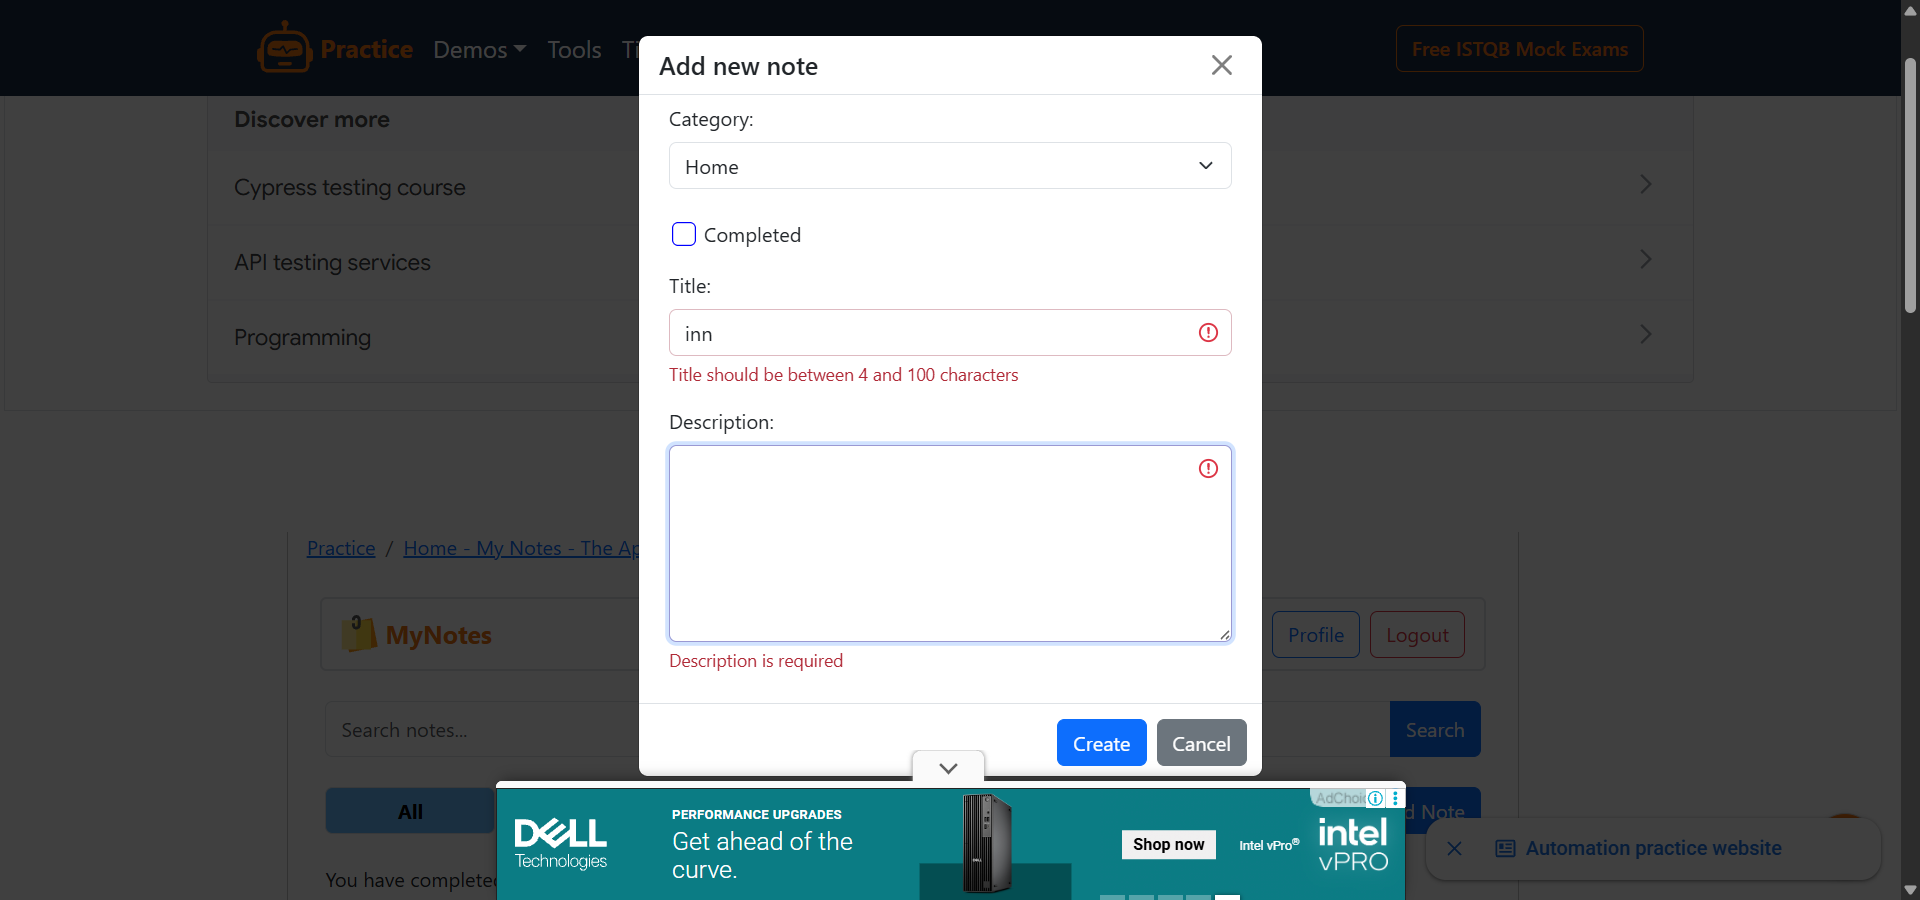
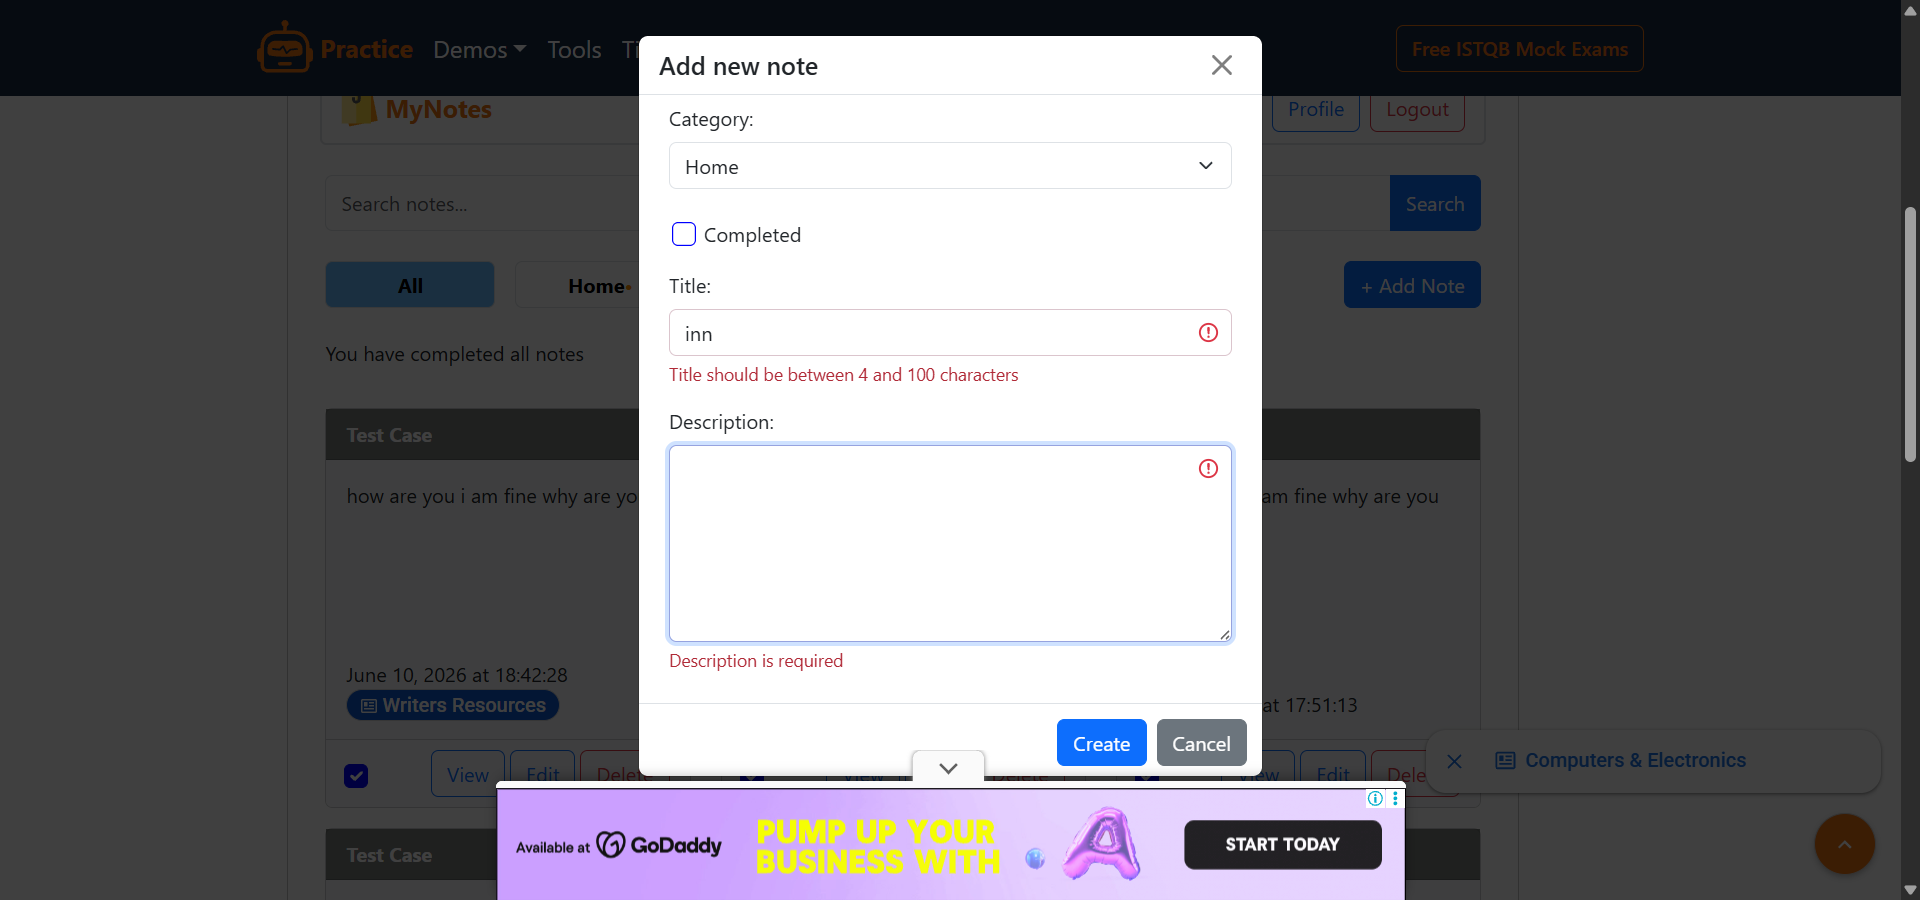
Initial Hybrid Framework

diff --git a/pages/notes_page.py b/pages/notes_page.py
@@ -1,4 +1,5 @@
 from selenium.webdriver.common.by import By
+from selenium.webdriver.support import expected_conditions as EC
 from pages.base_page import BasePage
 
 
@@ -42,7 +43,21 @@ class NotesPage(BasePage):
         self.enter_text(self.description_box, description)
 
     def click_create(self):
-        self.click(self.create_button)
+        button = self.wait.until(
+            EC.element_to_be_clickable(
+                self.create_button
+            )
+        )
+
+        self.driver.execute_script(
+            "arguments[0].scrollIntoView(true);",
+            button
+        )
+
+        self.driver.execute_script(
+            "arguments[0].click();",
+            button
+        )
 
     def click_view(self):
         self.click(self.view_button)